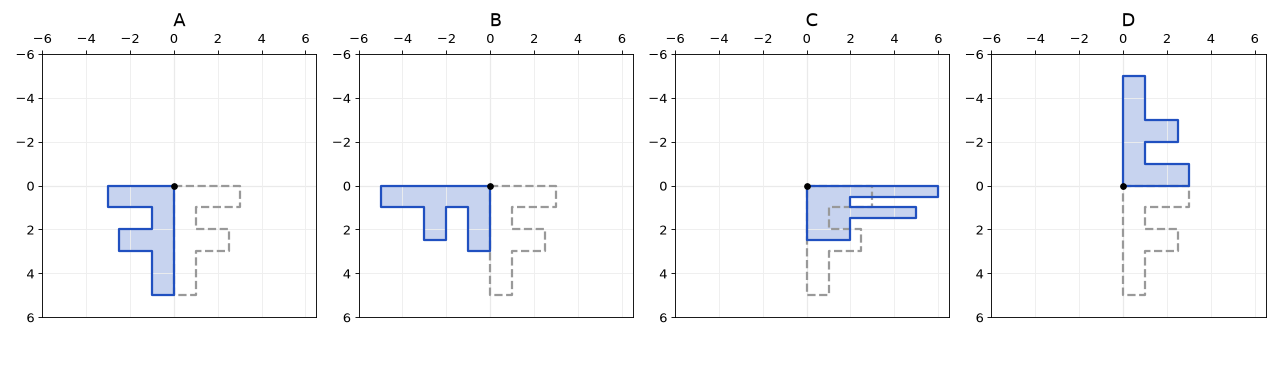
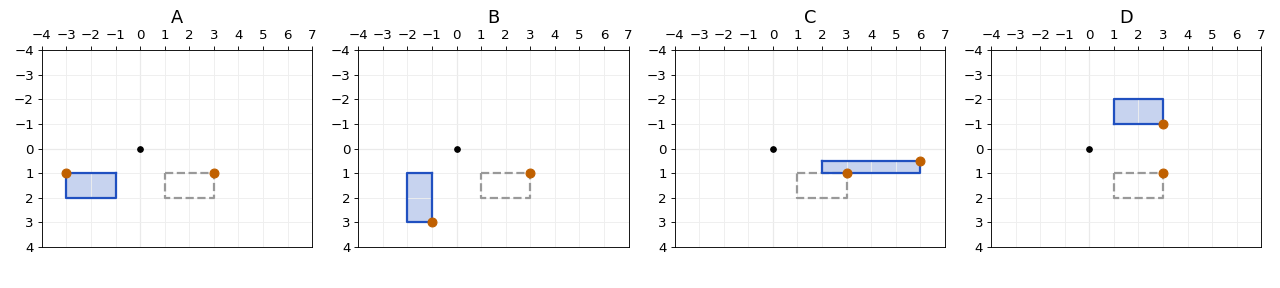
Exercise 15: a rectangle instead of the letter F; the exam-style question (part 4) with a new figure

diff --git a/exercises.html b/exercises.html
@@ -154,7 +154,7 @@ pre > code.sourceCode > span > a:first-child::before { text-decoration: underlin
 </header>
 
 
-<p><strong>עודכן לאחרונה: 17.11.2026</strong></p>
+<p><strong>עודכן לאחרונה: 24.11.2026</strong></p>
 <p>התרגילים של הקורס ירוכזו בקובץ הזה. המטלות ב-moodle יהיו מתוך הקובץ הזה (למשל "תרגילים 1–6").</p>
 <p>הקובץ יעודכן במהלך הסמסטר.</p>
 <section id="הנחיות-כלליות" class="level1">
@@ -516,17 +516,19 @@ pre > code.sourceCode > span > a:first-child::before { text-decoration: underlin
 <h2 class="anchored" data-anchor-id="תרגיל-15-מטריצות-של-טרנספורמציות">תרגיל 15 – מטריצות של טרנספורמציות</h2>
 <p>את התשובות המילוליות של תרגיל זה כתבי בקובץ <code>ex15.docx</code> (או <code>ex15.md</code>). את התוכנית בקובץ <code>ex15.py</code>.</p>
 <ol type="1">
-<li><p>כתבי תוכנית שמגדירה את האות F כמערך של נקודות: שורה אחת של x ושורה אחת של y.</p>
-<div class="code-copy-outer-scaffold"><div class="sourceCode" id="cb25"><pre class="sourceCode python code-with-copy"><code class="sourceCode python"><span id="cb25-1"><a href="#cb25-1" aria-hidden="true" tabindex="-1"></a>F <span class="op">=</span> np.array([[<span class="dv">0</span>, <span class="dv">3</span>, <span class="dv">3</span>, <span class="dv">1</span>, <span class="dv">1</span>, <span class="fl">2.5</span>, <span class="fl">2.5</span>, <span class="dv">1</span>, <span class="dv">1</span>, <span class="dv">0</span>],    <span class="co"># x</span></span>
-<span id="cb25-2"><a href="#cb25-2" aria-hidden="true" tabindex="-1"></a>              [<span class="dv">0</span>, <span class="dv">0</span>, <span class="dv">1</span>, <span class="dv">1</span>, <span class="dv">2</span>, <span class="dv">2</span>, <span class="dv">3</span>, <span class="dv">3</span>, <span class="dv">5</span>, <span class="dv">5</span>]])      <span class="co"># y</span></span></code></pre></div><button title="העתק ללוח" class="code-copy-button"><i class="bi"></i></button></div>
-<p>הגדירי מטריצה S שמכפילה רק את y פי 2, ומטריצה R שמסובבת ב-30 מעלות, כמו בשקף "Scaling and rotation". התוכנית מציגה בחלון אחד ארבעה גרפים: האות אחרי S, אחרי R, אחרי <code dir="ltr">R @ S</code> ואחרי <code dir="ltr">S @ R</code>. בכל גרף מופיעה גם האות המקורית, בקו מקווקו. התוכנית גם מדפיסה את המטריצות <code dir="ltr">R @ S</code> ו-<code dir="ltr">S @ R</code>.</p>
+<li><p>כתבי תוכנית שמגדירה מלבן כמערך של נקודות: שורה אחת של x ושורה אחת של y (כל עמודה היא פינה). הפינות מסודרות לפי הסדר מסביב למלבן, כדי שאפשר יהיה לצייר אותו:</p>
+<div class="code-copy-outer-scaffold"><div class="sourceCode" id="cb25"><pre class="sourceCode python code-with-copy"><code class="sourceCode python"><span id="cb25-1"><a href="#cb25-1" aria-hidden="true" tabindex="-1"></a>P <span class="op">=</span> np.array([[<span class="dv">1</span>, <span class="dv">3</span>, <span class="dv">3</span>, <span class="dv">1</span>],      <span class="co"># x of the four corners, in order around the rectangle</span></span>
+<span id="cb25-2"><a href="#cb25-2" aria-hidden="true" tabindex="-1"></a>              [<span class="dv">1</span>, <span class="dv">1</span>, <span class="dv">2</span>, <span class="dv">2</span>]])     <span class="co"># y</span></span></code></pre></div><button title="העתק ללוח" class="code-copy-button"><i class="bi"></i></button></div>
+<p>הגדירי מטריצה S שמכפילה רק את y פי 2, ומטריצה R שמסובבת ב-30 מעלות, כמו בשקפים. התוכנית מציגה בחלון אחד ארבעה גרפים: המלבן אחרי S, אחרי R, אחרי <code dir="ltr">R @ S</code> ואחרי <code dir="ltr">S @ R</code>. בכל גרף מופיעים גם המלבן המקורי, בקו מקווקו, והראשית <code dir="ltr">(0, 0)</code>. התוכנית גם מדפיסה את המטריצות <code dir="ltr">R @ S</code> ו-<code dir="ltr">S @ R</code>.</p>
 <p>אפשר לצייר צורה בעזרת <code>ax.fill</code>. כדי שהציר y יפנה למטה, כמו בתמונה, הוסיפי לכל גרף את שתי השורות האחרונות:</p>
 <div class="code-copy-outer-scaffold"><div class="sourceCode" id="cb26"><pre class="sourceCode python code-with-copy"><code class="sourceCode python"><span id="cb26-1"><a href="#cb26-1" aria-hidden="true" tabindex="-1"></a>ax.fill(pts[<span class="dv">0</span>], pts[<span class="dv">1</span>], alpha<span class="op">=</span><span class="fl">0.5</span>)     <span class="co"># pts: an array of points, shape (2, n)</span></span>
-<span id="cb26-2"><a href="#cb26-2" aria-hidden="true" tabindex="-1"></a>ax.invert_yaxis()                      <span class="co"># y down, as in an image</span></span>
-<span id="cb26-3"><a href="#cb26-3" aria-hidden="true" tabindex="-1"></a>ax.set_aspect(<span class="st">"equal"</span>)                 <span class="co"># the same scale on both axes</span></span></code></pre></div><button title="העתק ללוח" class="code-copy-button"><i class="bi"></i></button></div></li>
+<span id="cb26-2"><a href="#cb26-2" aria-hidden="true" tabindex="-1"></a>ax.plot(<span class="dv">0</span>, <span class="dv">0</span>, <span class="st">"ko"</span>)                    <span class="co"># the origin, a black dot</span></span>
+<span id="cb26-3"><a href="#cb26-3" aria-hidden="true" tabindex="-1"></a>ax.invert_yaxis()                      <span class="co"># y down, as in an image</span></span>
+<span id="cb26-4"><a href="#cb26-4" aria-hidden="true" tabindex="-1"></a>ax.set_aspect(<span class="st">"equal"</span>)                 <span class="co"># the same scale on both axes</span></span></code></pre></div><button title="העתק ללוח" class="code-copy-button"><i class="bi"></i></button></div></li>
 <li><p>בקובץ התשובות עני:</p>
 <ul>
-<li>לאיזה כיוון, על המסך, סובבה R את האות: עם כיוון השעון או נגדו? למה?</li>
+<li>לאיזה כיוון, על המסך, סובבה R את המלבן: עם כיוון השעון או נגדו? למה?</li>
+<li>למה המלבן גם זז, ולא רק הסתובב במקום?</li>
 <li>מה ההבדל בין <code dir="ltr">R @ S</code> לבין <code dir="ltr">S @ R</code>: איזו פעולה נעשית ראשונה בכל אחת מהן?</li>
 <li>הוסיפי לתוכנית בדיקה בעזרת <code>np.allclose</code>: האם <code dir="ltr">R @ S</code> שווה ל-<code dir="ltr">S @ R</code>, כאשר S מכפילה גם את x וגם את y פי 2? הסבירי את התוצאה.</li>
 </ul></li>
@@ -538,7 +540,7 @@ pre > code.sourceCode > span > a:first-child::before { text-decoration: underlin
 <li><p>לאן M מעבירה את המרכז <code dir="ltr">(cx, cy)</code>, ולאן את הפינה השמאלית העליונה <code dir="ltr">(0, 0)</code>.</p></li>
 </ul>
 <p>בקובץ התשובות הסבירי: למה המרכז לא זז? לאן הגיעה הפינה, ומה זה אומר על התמונה אחרי הסיבוב? ולמה בפקודה של OpenCV כתוב <code dir="ltr">-30</code> ולא 30?</p></li>
-<li><p>שאלה בסגנון המבחן: בכל אחד מהגרפים A עד D, הקו המקווקו הוא האות F המקורית, והצורה הכחולה היא התוצאה של אחת מהמטריצות הבאות. הציר y מצביע למטה, כמו בתמונה, והנקודה השחורה היא הראשית <code dir="ltr">(0, 0)</code>.</p>
+<li><p>שאלה בסגנון המבחן: בכל אחד מהגרפים A עד D, הקו המקווקו הוא המלבן המקורי מסעיף 1, והצורה הכחולה היא התוצאה של אחת מהמטריצות הבאות. הציר y מצביע למטה, כמו בתמונה, והנקודה השחורה היא הראשית <code dir="ltr">(0, 0)</code>. הנקודות הכתומות הן הפינה <code dir="ltr">(3, 1)</code> לפני ואחרי.</p>
 <div class="code-copy-outer-scaffold"><div class="sourceCode" id="cb28"><pre class="sourceCode python code-with-copy"><code class="sourceCode python"><span id="cb28-1"><a href="#cb28-1" aria-hidden="true" tabindex="-1"></a>M1 <span class="op">=</span> np.array([[<span class="dv">2</span>, <span class="dv">0</span>], [<span class="dv">0</span>, <span class="fl">0.5</span>]])</span>
 <span id="cb28-2"><a href="#cb28-2" aria-hidden="true" tabindex="-1"></a>M2 <span class="op">=</span> np.array([[<span class="dv">0</span>, <span class="op">-</span><span class="dv">1</span>], [<span class="dv">1</span>, <span class="dv">0</span>]])</span>
 <span id="cb28-3"><a href="#cb28-3" aria-hidden="true" tabindex="-1"></a>M3 <span class="op">=</span> np.array([[<span class="dv">0</span>, <span class="dv">1</span>], [<span class="op">-</span><span class="dv">1</span>, <span class="dv">0</span>]])</span>
@@ -550,7 +552,7 @@ pre > code.sourceCode > span > a:first-child::before { text-decoration: underlin
 <figcaption>ארבעה גרפים: A, B, C, D</figcaption>
 </figure>
 </div>
-<p>איזו מטריצה מתאימה לכל גרף? אחת המטריצות לא מופיעה. הסבירי בקובץ התשובות כל תשובה במשפט אחד: למשל, לאן המטריצה מעבירה את הנקודה <code dir="ltr">(0, 5)</code>, הקצה התחתון של האות. אחרי שענית, אפשר לבדוק בעזרת התוכנית מסעיף 1.</p></li>
+<p>איזו מטריצה מתאימה לכל גרף? אחת המטריצות לא מופיעה. הסבירי בקובץ התשובות כל תשובה במשפט אחד: למשל, לאן המטריצה מעבירה את הפינה <code dir="ltr">(3, 1)</code>. אחרי שענית, אפשר לבדוק בעזרת התוכנית מסעיף 1.</p></li>
 <li><p>בונוס: כתבי פונקציה <code dir="ltr">rotation(deg)</code> שמחזירה את המטריצה R של סיבוב ב-deg מעלות, ובדקי בעזרת <code>np.allclose</code>:</p>
 <div class="code-copy-outer-scaffold"><div class="sourceCode" id="cb29"><pre class="sourceCode python code-with-copy"><code class="sourceCode python"><span id="cb29-1"><a href="#cb29-1" aria-hidden="true" tabindex="-1"></a>rotation(<span class="dv">30</span>) <span class="op">@</span> rotation(<span class="dv">60</span>)       <span class="co"># == rotation(90)?</span></span>
 <span id="cb29-2"><a href="#cb29-2" aria-hidden="true" tabindex="-1"></a>np.linalg.inv(rotation(<span class="dv">30</span>))       <span class="co"># == rotation(-30)? == rotation(30).T?</span></span></code></pre></div><button title="העתק ללוח" class="code-copy-button"><i class="bi"></i></button></div>

diff --git a/exercises.md b/exercises.md
@@ -1,6 +1,6 @@
 # עיבוד תמונה – חוברת תרגילים
 
-**עודכן לאחרונה: 17.11.2026**
+**עודכן לאחרונה: 24.11.2026**
 
 התרגילים של הקורס ירוכזו בקובץ הזה. המטלות ב-moodle יהיו מתוך הקובץ הזה (למשל "תרגילים 1–6").
 
@@ -512,29 +512,32 @@ filename = sys.argv[1]
 את התשובות המילוליות של תרגיל זה כתבי בקובץ `ex15.docx` (או `ex15.md`).
 את התוכנית בקובץ `ex15.py`.
 
-1. כתבי תוכנית שמגדירה את האות F כמערך של נקודות: שורה אחת של x ושורה אחת של y.
+1. כתבי תוכנית שמגדירה מלבן כמערך של נקודות: שורה אחת של x ושורה אחת של y (כל עמודה היא פינה).
+   הפינות מסודרות לפי הסדר מסביב למלבן, כדי שאפשר יהיה לצייר אותו:
 
    ```python
-   F = np.array([[0, 3, 3, 1, 1, 2.5, 2.5, 1, 1, 0],    # x
-                 [0, 0, 1, 1, 2, 2, 3, 3, 5, 5]])      # y
+   P = np.array([[1, 3, 3, 1],      # x of the four corners, in order around the rectangle
+                 [1, 1, 2, 2]])     # y
    ```
 
-   הגדירי מטריצה S שמכפילה רק את y פי 2, ומטריצה R שמסובבת ב-30 מעלות, כמו בשקף "Scaling and rotation".
-   התוכנית מציגה בחלון אחד ארבעה גרפים: האות אחרי S, אחרי R, אחרי <code dir="ltr">R @ S</code> ואחרי <code dir="ltr">S @ R</code>.
-   בכל גרף מופיעה גם האות המקורית, בקו מקווקו.
+   הגדירי מטריצה S שמכפילה רק את y פי 2, ומטריצה R שמסובבת ב-30 מעלות, כמו בשקפים.
+   התוכנית מציגה בחלון אחד ארבעה גרפים: המלבן אחרי S, אחרי R, אחרי <code dir="ltr">R @ S</code> ואחרי <code dir="ltr">S @ R</code>.
+   בכל גרף מופיעים גם המלבן המקורי, בקו מקווקו, והראשית <code dir="ltr">(0, 0)</code>.
    התוכנית גם מדפיסה את המטריצות <code dir="ltr">R @ S</code> ו-<code dir="ltr">S @ R</code>.
 
    אפשר לצייר צורה בעזרת `ax.fill`. כדי שהציר y יפנה למטה, כמו בתמונה, הוסיפי לכל גרף את שתי השורות האחרונות:
 
    ```python
    ax.fill(pts[0], pts[1], alpha=0.5)     # pts: an array of points, shape (2, n)
+   ax.plot(0, 0, "ko")                    # the origin, a black dot
    ax.invert_yaxis()                      # y down, as in an image
    ax.set_aspect("equal")                 # the same scale on both axes
    ```
 
 2. בקובץ התשובות עני:
 
-   - לאיזה כיוון, על המסך, סובבה R את האות: עם כיוון השעון או נגדו? למה?
+   - לאיזה כיוון, על המסך, סובבה R את המלבן: עם כיוון השעון או נגדו? למה?
+   - למה המלבן גם זז, ולא רק הסתובב במקום?
    - מה ההבדל בין <code dir="ltr">R @ S</code> לבין <code dir="ltr">S @ R</code>: איזו פעולה נעשית ראשונה בכל אחת מהן?
    - הוסיפי לתוכנית בדיקה בעזרת `np.allclose`: האם <code dir="ltr">R @ S</code> שווה ל-<code dir="ltr">S @ R</code>, כאשר S מכפילה גם את x וגם את y פי 2? הסבירי את התוצאה.
 
@@ -553,8 +556,9 @@ filename = sys.argv[1]
    בקובץ התשובות הסבירי: למה המרכז לא זז? לאן הגיעה הפינה, ומה זה אומר על התמונה אחרי הסיבוב?
    ולמה בפקודה של OpenCV כתוב <code dir="ltr">-30</code> ולא 30?
 
-4. שאלה בסגנון המבחן: בכל אחד מהגרפים A עד D, הקו המקווקו הוא האות F המקורית, והצורה הכחולה היא התוצאה של אחת מהמטריצות הבאות.
+4. שאלה בסגנון המבחן: בכל אחד מהגרפים A עד D, הקו המקווקו הוא המלבן המקורי מסעיף 1, והצורה הכחולה היא התוצאה של אחת מהמטריצות הבאות.
    הציר y מצביע למטה, כמו בתמונה, והנקודה השחורה היא הראשית <code dir="ltr">(0, 0)</code>.
+   הנקודות הכתומות הן הפינה <code dir="ltr">(3, 1)</code> לפני ואחרי.
 
    ```python
    M1 = np.array([[2, 0], [0, 0.5]])
@@ -567,7 +571,7 @@ filename = sys.argv[1]
    ![ארבעה גרפים: A, B, C, D](images/ex15_matrices.png)
 
    איזו מטריצה מתאימה לכל גרף? אחת המטריצות לא מופיעה.
-   הסבירי בקובץ התשובות כל תשובה במשפט אחד: למשל, לאן המטריצה מעבירה את הנקודה <code dir="ltr">(0, 5)</code>, הקצה התחתון של האות.
+   הסבירי בקובץ התשובות כל תשובה במשפט אחד: למשל, לאן המטריצה מעבירה את הפינה <code dir="ltr">(3, 1)</code>.
    אחרי שענית, אפשר לבדוק בעזרת התוכנית מסעיף 1.
 
 5. בונוס: כתבי פונקציה <code dir="ltr">rotation(deg)</code> שמחזירה את המטריצה R של סיבוב ב-deg מעלות,
